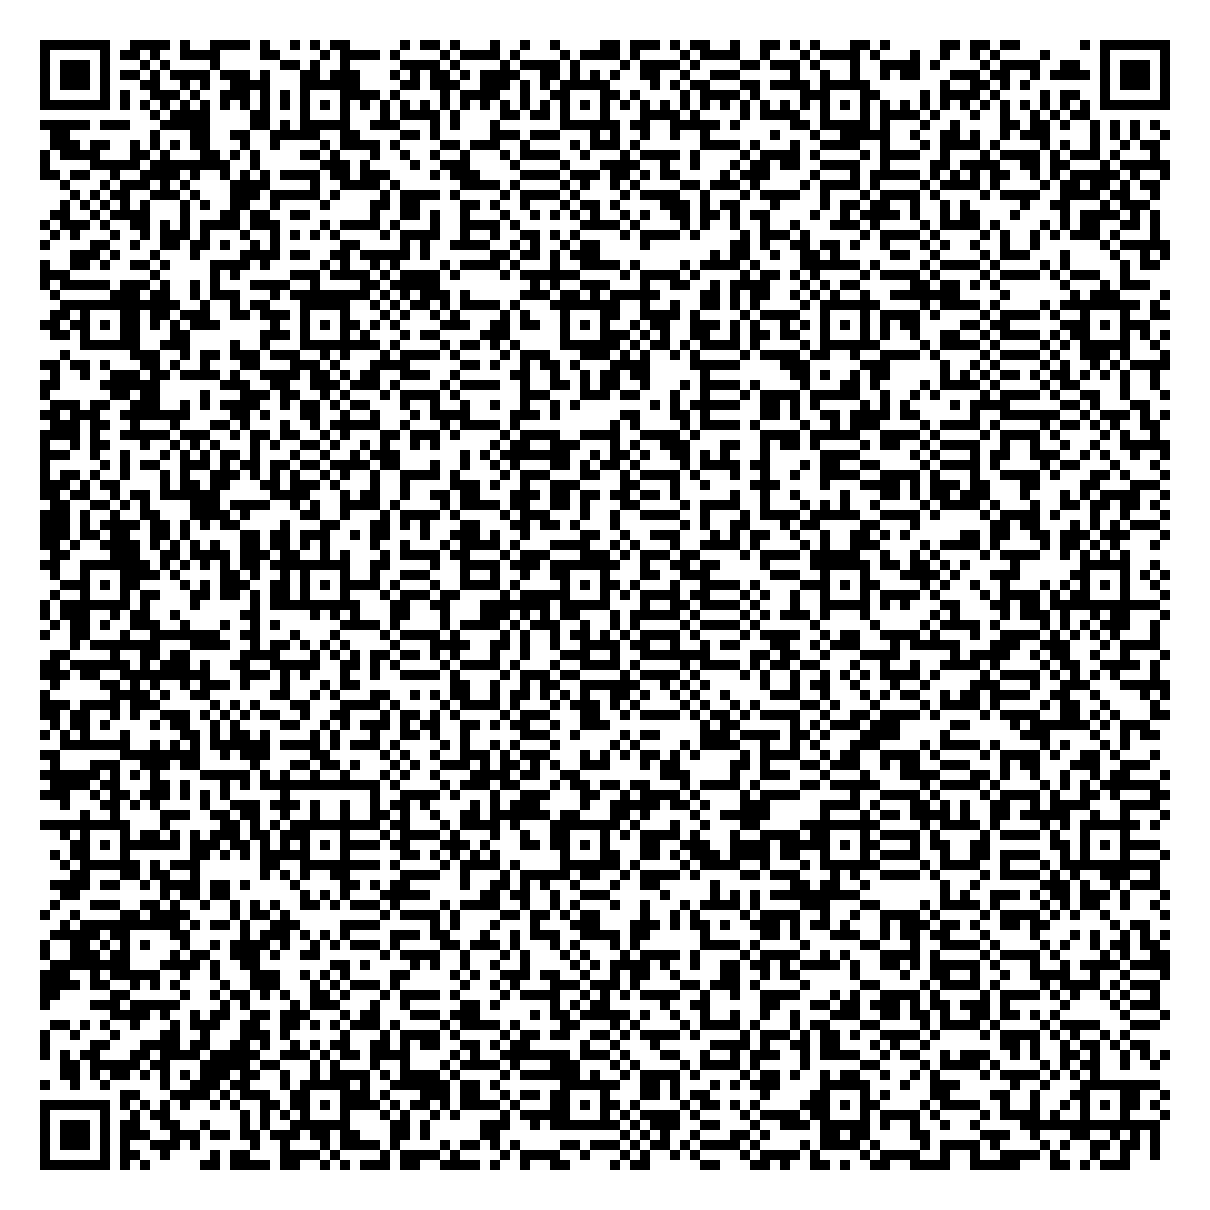
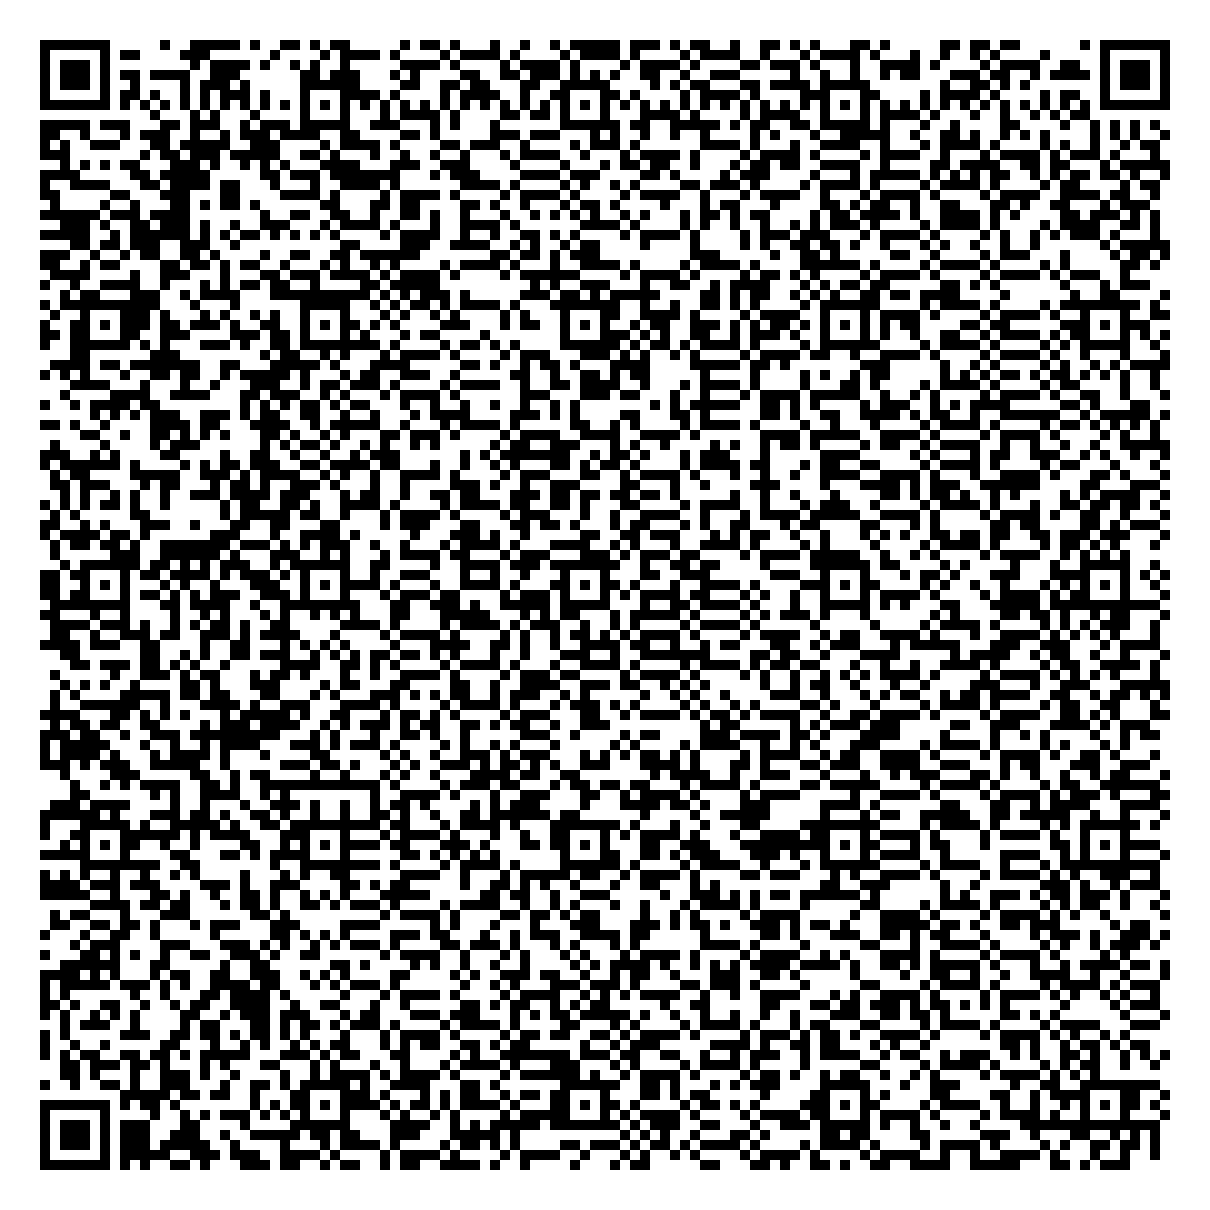
QR code

diff --git a/qrgen.py b/qrgen.py
@@ -20,8 +20,9 @@ for row in ws.iter_rows():
 
 # Encode the values as a QR code
 qr = qrcode.QRCode(version=None, error_correction=qrcode.constants.ERROR_CORRECT_L, box_size=10, border=4)
-qr.add_data(','.join(values))
+qr.add_data('\r'.join(values))
 qr.make(fit=True)
+
 
 # Save the QR code image
 img = qr.make_image(fill_color='black', back_color='white')
